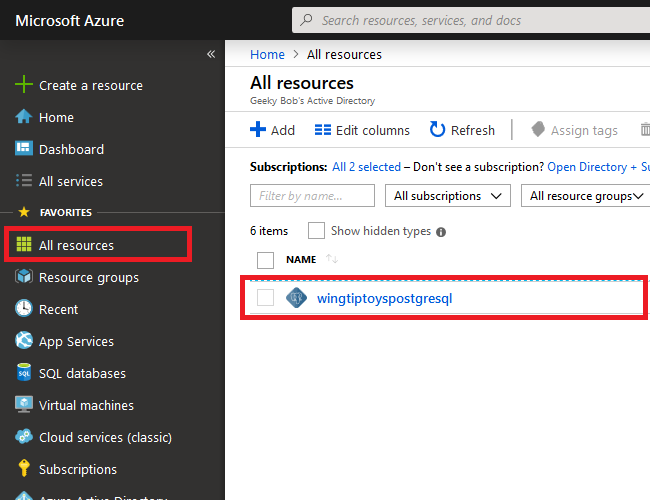
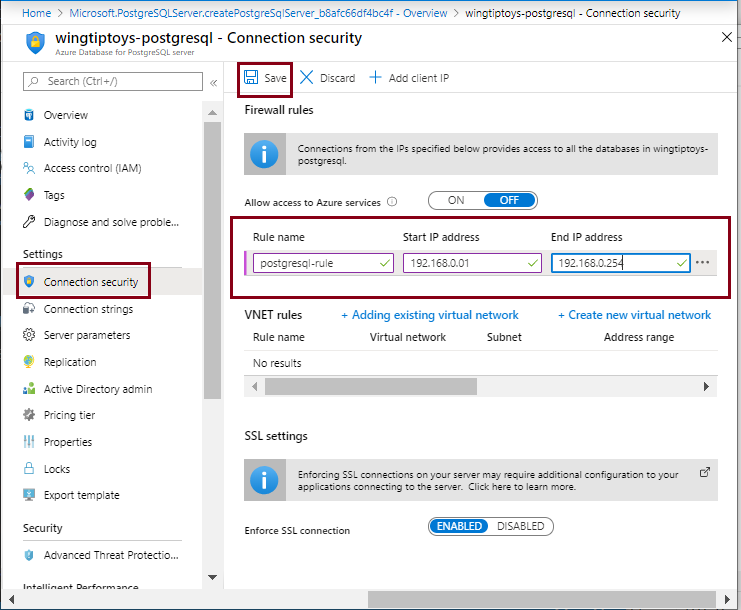
Update screen shots and instructions for new UI.

diff --git a/java/spring-framework/configure-spring-data-jdbc-with-azure-postgresql.md b/java/spring-framework/configure-spring-data-jdbc-with-azure-postgresql.md
@@ -3,15 +3,13 @@ title: How to use Spring Data JDBC with Azure PostgreSQL
 description: Learn how to use Spring Data JDBC with an Azure PostgreSQL database.
 services: postgresql
 documentationcenter: java
-ms.date: 12/19/2018
+ms.date: 12/26/2019
 ms.service: postgresql
 ms.tgt_pltfrm: multiple
 ms.topic: article
 ---
 
 # How to use Spring Data JDBC with Azure PostgreSQL
-
-## Overview
 
 This article demonstrates creating a sample application that uses [Spring Data] to store and retrieve information in an Azure [PostgreSQL](https://www.postgresql.org/) database using [Java Database Connectivity (JDBC)](https://docs.oracle.com/javase/8/docs/technotes/guides/jdbc/).
 
@@ -42,19 +40,20 @@ The following prerequisites are required in order to complete the steps in this 
 
 1. Enter the following information:
 
-   - **Server name**: Choose a unique name for your PostgreSQL server; this will be used to create a fully-qualified domain name like *wingtiptoyspostgresql.postgres.database.azure.com*.
-   - **Subscription**: Specify your Azure subscription to use.
    - **Resource group**: Specify whether to create a new resource group, or choose an existing resource group.
-   - **Select source**: For this tutorial, select `Blank` to create a new database.
+   - **Subscription**: Specify your Azure subscription to use.
+   - **Server name**: Choose a unique name for your PostgreSQL server; this will be used to create a fully-qualified domain name like *wingtiptoyspostgresql.postgres.database.azure.com*.
+   - **Select source**: For this tutorial, select `None` to create a new database.
    - **Server admin login**: Specify the database administrator name.
    - **Password** and **Confirm password**: Specify the password for your database administrator.
    - **Location**: Specify the closest geographic region for your database.
    - **Version**: Specify the most-up-to-date database version.
-   - **Pricing tier**: For this tutorial, specify the least-expensive pricing tier.
 
    ![Create your PostgreSQL database properties][POSTGRESQL02]
 
-1. When you have entered all of the above information, click **Create**.
+1. When you have entered all of the above information, click **Review and create**.
+
+1. Verify the specifications, and click **Create**.
 
 ### Configure a firewall rule for your PostgreSQL database server using the Azure portal
 
@@ -62,19 +61,15 @@ The following prerequisites are required in order to complete the steps in this 
 
 1. Click **All Resources**, then click the PostgreSQL database you just created.
 
-   ![Select your PostgreSQL database][POSTGRESQL03]
-
 1. Click **Connection security**, and in the **Firewall rules**, create a new rule by specifying a unique name for the rule, then enter the range of IP addresses that will need access to your database, and then click **Save**.
 
-   ![Configure connection security][POSTGRESQL04]
+   ![Configure connection security][POSTGRESQL03]
 
 ### Retrieve the connection string for your PostgreSQL server using the Azure portal
 
 1. Browse to the Azure portal at <https://portal.azure.com/> and sign in.
 
 1. Click **All Resources**, then click the PostgreSQL database you just created.
-
-   ![Select your PostgreSQL database][POSTGRESQL03]
 
 1. Click **Connection strings**, and copy the value in the **JDBC** text field.
 
